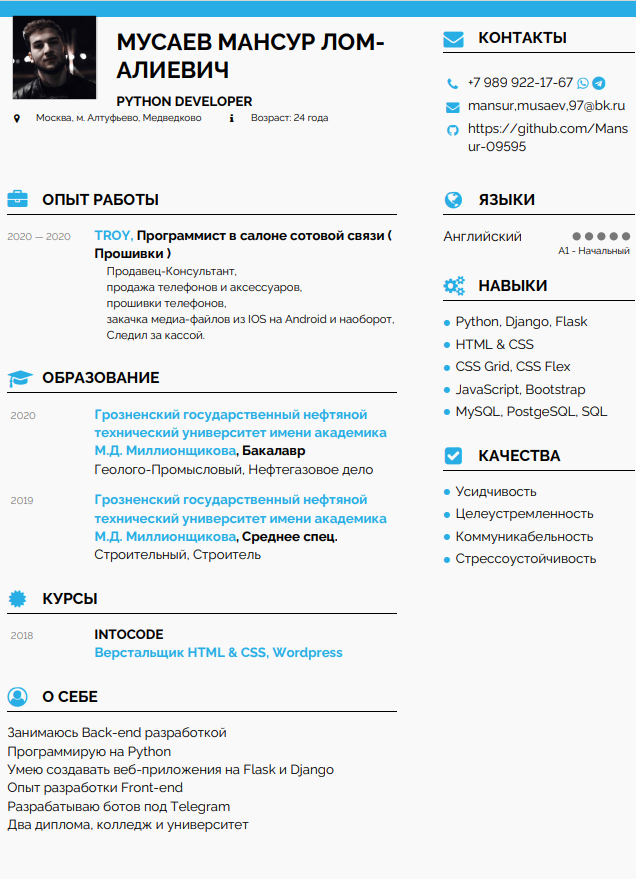
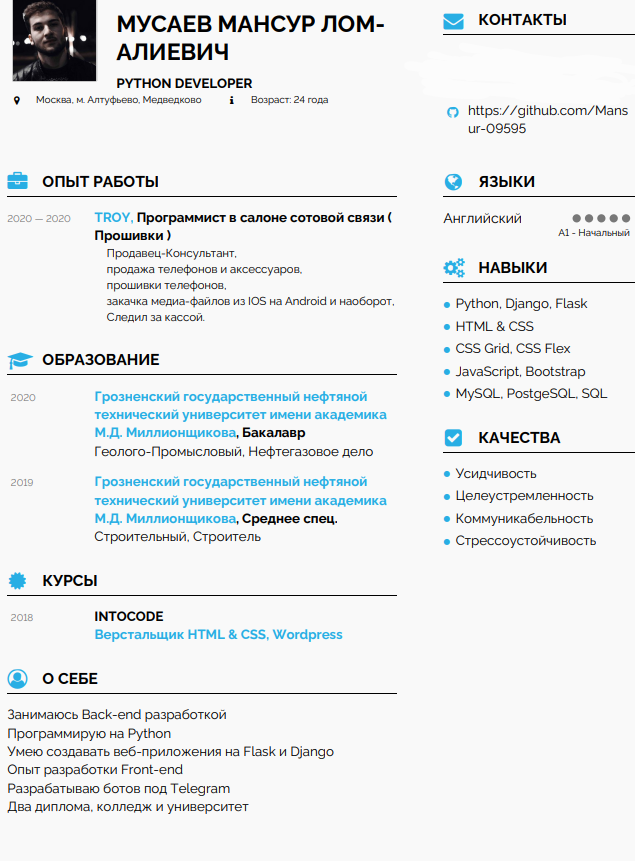
Пару изменений на Fronte.2.0

diff --git a/templates/about.html b/templates/about.html
@@ -1,5 +1,7 @@
 {% extends 'base.html' %}
 
+{% load static %}
+
 {% block content %}
 
 <div class="grid">
@@ -31,16 +33,17 @@
           </div>
         </nav>           
     </header>
-    <article>
-      <h3 style="text-align: center;">Шкала используемых языков для сайта</h3>
-      <div class="progress">
-        <div class="progress-bar" role="progressbar" style="width: 51.6%; background-color: #e34c26;" aria-valuenow="15" aria-valuemin="0" aria-valuemax="100">HTML 51.6%</div>
-        <div class="progress-bar" role="progressbar" style="width: 39.0%; background-color: #3572A5;" aria-valuenow="30" aria-valuemin="0" aria-valuemax="100">Python 39.0%</div>
-        <div class="progress-bar" role="progressbar" style="width: 7.0%; background-color: #563d7c;" aria-valuenow="20" aria-valuemin="0" aria-valuemax="100">CSS 7.0%</div>
-        <div class="progress-bar" role="progressbar" style="width: 2.4%; background-color: #f1e05a;" aria-valuenow="20" aria-valuemin="0" aria-valuemax="100">JS 2.4%</div>
-      </div>
+    <article style="background-color: #fcfcfc;">
+      <img src="{% static 'images/resume.png' %}"  alt="John" 
+                style=
+                "margin-top: 15px;
+                width: 100%;
+                float:none;
+                height: 100%;
+                max-width: 480px;
+                min-height: 650px;">
     </article>
-    <footer class="bg-dark text-center text-white">
+    <footer style="width: 100%;" class="bg-dark text-center text-white">
       <!-- Grid container -->
       <div class="container p-4 pb-0">
         <!-- Section: Social media -->
@@ -90,6 +93,10 @@
 
 
   <style>
+      .grid > * {
+        width: 42%;
+      }
+
       body {
           font-family: "Lato", sans-serif;
           transition: background-color .5s;
@@ -137,6 +144,12 @@
         @media screen and (max-height: 450px) {
           .sidenav {padding-top: 15px;}
           .sidenav a {font-size: 18px;}
+        }
+
+        @media screen and (max-width: 600px) {
+          article {
+            display: none;
+          }
         }
   </style>
       

diff --git a/templates/article_new.html b/templates/article_new.html
@@ -53,6 +53,8 @@
       <button class="btn btn-success ml-2" type="submit">Save</button>
     </form>
     </article>
-    <footer><a href="{% url 'home' %}">Главная</a></footer>
+    <footer style="text-align: center; padding: 10px; margin-bottom: 15px;">
+      <a href="{% url 'article_list' %}">Назад</a>
+    </footer>
 </div>      
 {% endblock %}

diff --git a/templates/home.html b/templates/home.html
@@ -90,7 +90,7 @@
           </div>
         </div>
     </aside>
-    <footer class="bg-dark text-center text-white">
+    <footer style="width: 100%;" class="bg-dark text-center text-white">
       <!-- Grid container -->
       <div class="container p-4 pb-0">
         <!-- Section: Social media -->

diff --git a/static/css/button.css b/static/css/button.css
@@ -69,7 +69,7 @@ nav {
 		right: 0px;
 		height: 92vh;
 		top: 8vh;
-		background-color: #5D4954;
+		background-color: #343a40!important;
 		display: flex;
 		flex-direction: column;
 		align-items: center;

diff --git a/My_Blog/settings.py b/My_Blog/settings.py
@@ -27,10 +27,10 @@ SECRET_KEY = secret_key
 #SECRET_KEY = os.environ.get('SECRET_KEY')
 
 # SECURITY WARNING: don't run with debug turned on in production!
-DEBUG = False
+DEBUG = True
 
-ALLOWED_HOSTS = ['musaevblog.herokuapp.com']
-#ALLOWED_HOSTS = []
+#ALLOWED_HOSTS = ['musaevblog.herokuapp.com']
+ALLOWED_HOSTS = []
 
 # Application definition
 
